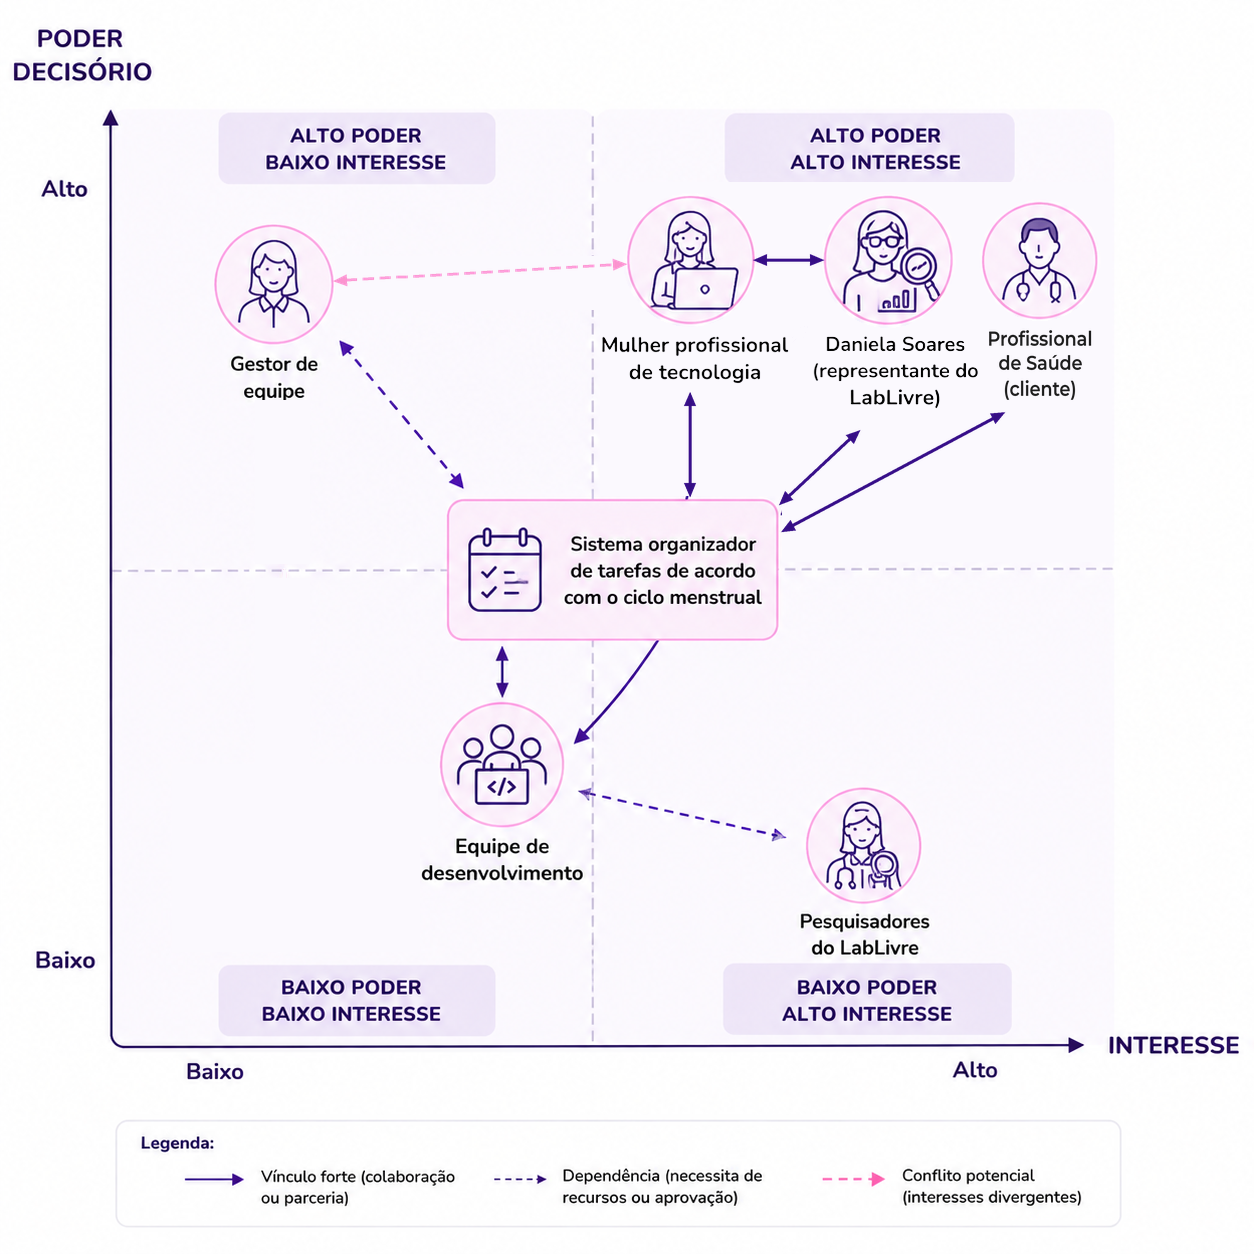
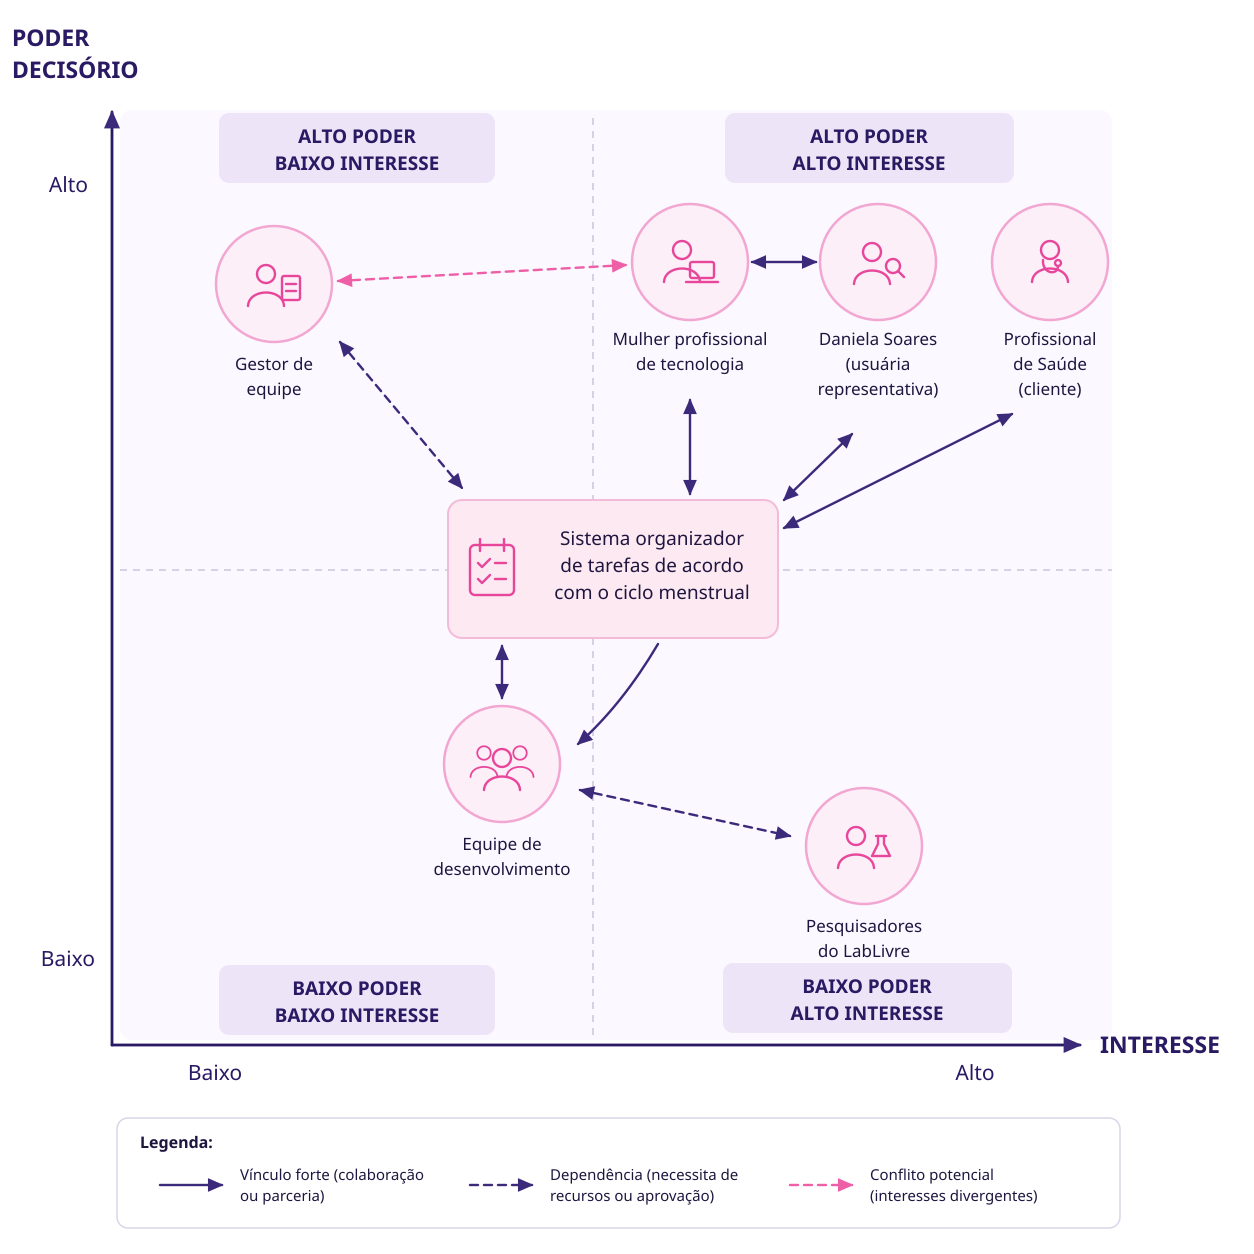
docs(visao): alinha as referências à cliente, à usuária representativa e ao LabLivre e recria a Figura 3

diff --git a/content/visao/04-estrategias-engenharia-software.md b/content/visao/04-estrategias-engenharia-software.md
@@ -53,7 +53,8 @@ A Engenharia de Requisitos tem maior intensidade na Concepção e na Elaboraçã
 escopo do MVP é delimitado, mas a disciplina não se encerra quando a Construção começa.
 Novos detalhes de requisitos, ajustes de critérios de aceitação e mudanças de prioridade
 continuam sendo tratados nas Releases 3 e 4, à medida que os incrementos funcionais são
-construídos e validados com o LabLivre e com as usuárias representativas. A Transição pode
+construídos e validados com a cliente profissional de saúde e com as usuárias
+representativas. A Transição pode
 inclusive reabrir requisitos, caso a validação de aceitação identifique lacunas.
 
 ## 4.3 Uso do Quadro Kanban
@@ -66,7 +67,7 @@ projeto, sem as demais práticas do método (WIP, políticas formais de fluxo, m
   para entrar em desenvolvimento), *A Fazer* (itens que atendem ao Definition of Ready,
   definido na [Seção 7.3](../07-interacao-equipe-cliente/#73-processo-de-validação)), *Em
   Desenvolvimento*, *Em Verificação* (revisão de código e testes), *Em Validação*
-  (validação com a representante do cliente ou com usuárias representativas) e
+  (validação com a cliente profissional de saúde ou com usuárias representativas) e
   *Concluído* (itens que atendem ao Definition of Done). Um item bloqueado não muda de
   coluna: recebe uma marcação visual de impedimento sobre o cartão, permanecendo na coluna
   em que estava até que o impedimento seja resolvido, o que é acompanhado na reunião
@@ -76,7 +77,7 @@ projeto, sem as demais práticas do método (WIP, políticas formais de fluxo, m
   início ou do fim de uma iteração. A cadência quinzenal, definida na
   [Seção 7.2](../07-interacao-equipe-cliente/#72-comunicação), não fragmenta esse fluxo em
   lotes fechados: ela é o momento em que o backlog é reabastecido e priorizado e em que os
-  itens concluídos são revisados com a representante do cliente, sem interromper cartões
+  itens concluídos são revisados com a cliente profissional de saúde, sem interromper cartões
   que estejam em andamento entre uma iteração e outra. O planejamento, o monitoramento e o
   fechamento de cada iteração são conduzidos pelo OpenUP; o quadro apenas torna esse
   andamento visível para toda a equipe.
@@ -121,7 +122,7 @@ cenário de aplicação do OpenUP, que detalha os requisitos progressivamente ao
 iterações, evitando a especificação excessiva antecipada e elaborando os detalhes em
 colaboração direta com os stakeholders no momento da implementação. Combinado ao
 reabastecimento contínuo do backlog no quadro Kanban, isso permite ajustar o escopo a
-cada iteração, incorporando o feedback dos pesquisadores do LabLivre e das usuárias
+cada iteração, incorporando o feedback da cliente profissional de saúde e das usuárias
 representativas dos segmentos definidos na
 [Seção 1.7](../01-cenario-atual/#17-segmentação-de-clientes). Isso é decisivo em
 características cujo comportamento correto não pode ser deduzido antecipadamente, como o

diff --git a/content/visao/07-interacao-equipe-cliente.md b/content/visao/07-interacao-equipe-cliente.md
@@ -24,7 +24,7 @@ A equipe de desenvolvimento será composta por:
 
 | Papel | Descrição | Responsável |
 |---|---|---|
-| Gerente de Projeto<br>Analista de Requisitos<br>(Gestor do Fluxo Kanban) | Coordena o planejamento e o acompanhamento das iterações, controla prazos e entregas e mantém a comunicação com a representante do cliente. Como analista de requisitos, conduz entrevistas e workshops, redige as histórias de usuário e mantém a matriz de rastreabilidade entre objetivos específicos, características de produto e histórias. | Ana Luisa Vieira Nunes |
+| Gerente de Projeto<br>Analista de Requisitos<br>(Gestor do Fluxo Kanban) | Coordena o planejamento e o acompanhamento das iterações, controla prazos e entregas e mantém a comunicação com a cliente. Como analista de requisitos, conduz entrevistas e workshops, redige as histórias de usuário e mantém a matriz de rastreabilidade entre objetivos específicos, características de produto e histórias. | Ana Luisa Vieira Nunes |
 | Analista de Requisitos<br>Analista de Dados | Participa da elicitação e da declaração dos requisitos, escrevendo histórias de usuário e seus critérios de aceitação. Como analista de dados, modela o histórico de estado, sintomas e fases do ciclo que sustenta o planejamento adaptativo das tarefas (CP4) e as recomendações personalizadas apresentadas à usuária. | Allan Kelvin Dias Gomes Monteiro |
 | Gerente de Projeto<br>Desenvolvedor Backend<br>(Responsável pelo Backlog) | Divide a coordenação do projeto, facilitando as reuniões de cadência e a gestão do fluxo no quadro Kanban, e removendo impedimentos. Como desenvolvedor backend, implementa as regras do planejamento adaptativo das tarefas (CP4), o reajuste da carga diária por disposição (CP5) e os mecanismos de cifragem e controle de acesso dos dados sensíveis (CP3). | Tiago Santos Bittencourt |
 | Desenvolvedor Frontend<br>Analista de QA | Implementa as telas de registro de estado, de planejamento diário e da retrospectiva mensal (CP6). Como analista de QA, escreve e mantém os testes de aceitação automatizados que a equipe adota para definir formalmente quando uma história está concluída. | Gustavo Silva Rodrigues |
@@ -80,7 +80,8 @@ iteração consta do [cronograma da Seção 6](../06-cronograma-e-entregas/).
 
 ### Participação da Cliente e da Usuária Representativa
 
-A cliente principal será uma profissional de saúde, com nome a definir. Ela participará de
+A cliente principal será a Dra. Cláudia Araújo Bottino, profissional de saúde
+(ginecologista). Ela participará de
 uma reunião mensal de revisão por Google Meet, na qual avaliará as entregas, confirmará a
 priorização do backlog e analisará os conteúdos relacionados à saúde. Sob demanda, também
 revisará critérios de aceitação, textos e recomendações dessa natureza antes da aceitação

diff --git a/content/openup/elaboracao/iteracao-03.md b/content/openup/elaboracao/iteracao-03.md
@@ -9,9 +9,9 @@ Esta página declara os requisitos da [Seção 8](../../../visao/08-requisitos-d
 
 | Identificador | Meta | Indicador | Referência | Resultado esperado | Prazo | OE |
 |---|---|---|---|---|---|:--:|
-| RNEG-01 | Melhorar a percepção dos sintomas durante todo o ciclo menstrual | a definir com a LabLivre | a definir com a LabLivre | a definir com a LabLivre | a definir com a LabLivre | OE1 |
-| RNEG-02 | Reduzir a sobrecarga executiva causada pelo planejamento de tarefas que desconsidera a fase do ciclo menstrual | a definir com a LabLivre | a definir com a LabLivre | a definir com a LabLivre | a definir com a LabLivre | OE2 |
-| RNEG-03 | Reduzir a sobrecarga executiva na execução das tarefas diárias, ajustando-as à disposição real da usuária | a definir com a LabLivre | a definir com a LabLivre | a definir com a LabLivre | a definir com a LabLivre | OE3 |
+| RNEG-01 | Melhorar a percepção dos sintomas durante todo o ciclo menstrual | a definir com a cliente | a definir com a cliente | a definir com a cliente | a definir com a cliente | OE1 |
+| RNEG-02 | Reduzir a sobrecarga executiva causada pelo planejamento de tarefas que desconsidera a fase do ciclo menstrual | a definir com a cliente | a definir com a cliente | a definir com a cliente | a definir com a cliente | OE2 |
+| RNEG-03 | Reduzir a sobrecarga executiva na execução das tarefas diárias, ajustando-as à disposição real da usuária | a definir com a cliente | a definir com a cliente | a definir com a cliente | a definir com a cliente | OE3 |
 
 RNEG-04 — Restrição externa: atender à LGPD (Lei nº 13.709/2018) no tratamento de dados pessoais sensíveis de saúde.
 

diff --git a/content/entregas/unidade-1.md b/content/entregas/unidade-1.md
@@ -44,13 +44,13 @@ e conduzir o Planejamento da Próxima Release**
 - [Lições aprendidas](../../visao/14-licoes-aprendidas/#141-unidade-1) registradas na Seção 14.1;
 - Backlog da Release 2 definido e priorizado no Notion.
 
-### Validação do cliente
+### Validação com os stakeholders
 
-- **Iteração 1:** Revisão da Iteração, por Google Meet, com a representante do LabLivre, para
+- **Iteração 1:** Revisão da Iteração, por Google Meet, com Daniela Soares, para
   confirmar a caracterização do problema, o mapa de stakeholders e os segmentos de clientes.
-- **Iteração 2:** Revisão da Iteração com a representante do LabLivre, para aprovação do
+- **Iteração 2:** Revisão da Iteração com Daniela Soares, para aprovação do
   objetivo geral, dos objetivos específicos e das características de produto.
-- **Fechamento:** sessão de Refinamento do Product Backlog com a representante do LabLivre,
+- **Fechamento:** sessão de Refinamento do Product Backlog com Daniela Soares,
   para revisar o Documento de Visão v1.0 e priorizar os requisitos de alto nível da
   Release 2.
 

diff --git a/content/visao/11-rastreabilidade.md b/content/visao/11-rastreabilidade.md
@@ -6,7 +6,7 @@ resumo: "Matriz de rastreabilidade do MindCycle: do problema raiz aos objetivos,
 ---
 
 > **Fonte desta seção.** **Matriz de Rastreabilidade de Requisitos v1.0**, extraída do quadro
-> *MindCycle – Figma* em **28/09/2026**. Cliente: **LabLivre · FCTE/UnB**. Este documento é a
+> *MindCycle – Figma* em **28/09/2026**. Cliente: **Dra. Cláudia Araújo Bottino**. Este documento é a
 > fonte oficial de requisitos do projeto, e sua numeração **RF01–RF27** / **RNF01–RNF11** é a
 > adotada no catálogo da [Seção 8](../08-requisitos-de-software/). Permanece em aberto o
 > alinhamento das Seções 2.2 e 2.3 (objetivos específicos e características de produto),

diff --git a/README.md b/README.md
@@ -3,8 +3,8 @@
 Repositório de projeto da disciplina de **Requisitos de Software (REQ) — Turma 02 — 2026.2**.
 
 **MindCycle** é um aplicativo de organização de tarefas que adapta o planejamento diário
-às variações de energia, foco e disposição ao longo do ciclo menstrual, desenvolvido para o
-**Laboratório de Competência em Software Livre (LabLivre)** da FCTE/UnB.
+às variações de energia, foco e disposição ao longo do ciclo menstrual, desenvolvido em
+parceria com o **Laboratório de Competência em Software Livre (LabLivre)** da FCTE/UnB.
 
 📄 **Documentação publicada:** <https://mdsreq-fga-unb.github.io/REQ-2026.2-T02-MindCycle/>
 

diff --git a/content/visao/02-solucao-proposta.md b/content/visao/02-solucao-proposta.md
@@ -130,7 +130,7 @@ cliente viabilizam o desenvolvimento do projeto.
 
 ## 2.7 Benefícios Esperados
 
-- **Para o cliente:** apoiar o LabLivre na promoção de soluções tecnológicas inclusivas
+- **Para o parceiro institucional:** apoiar o LabLivre na promoção de soluções tecnológicas inclusivas
   voltadas à permanência e ao bem-estar de mulheres na área de tecnologia, além de
   contribuir para pesquisas sobre produtividade, saúde menstrual e disfunção executiva.
 - **Para as usuárias:** oferecer uma organização de tarefas mais flexível e personalizada,

diff --git a/content/_index.md b/content/_index.md
@@ -13,7 +13,7 @@ description: "Documentação do produto e do projeto MindCycle — Requisitos de
     <p>
       Aplicativo de organização de tarefas que adapta o planejamento diário às
       variações de energia, foco e disposição ao longo do ciclo menstrual,
-      desenvolvido para o <strong>Laboratório de Competência em Software Livre
+      desenvolvido em parceria com o <strong>Laboratório de Competência em Software Livre
       (LabLivre)</strong> da FCTE/UnB.
     </p>
   </div>
